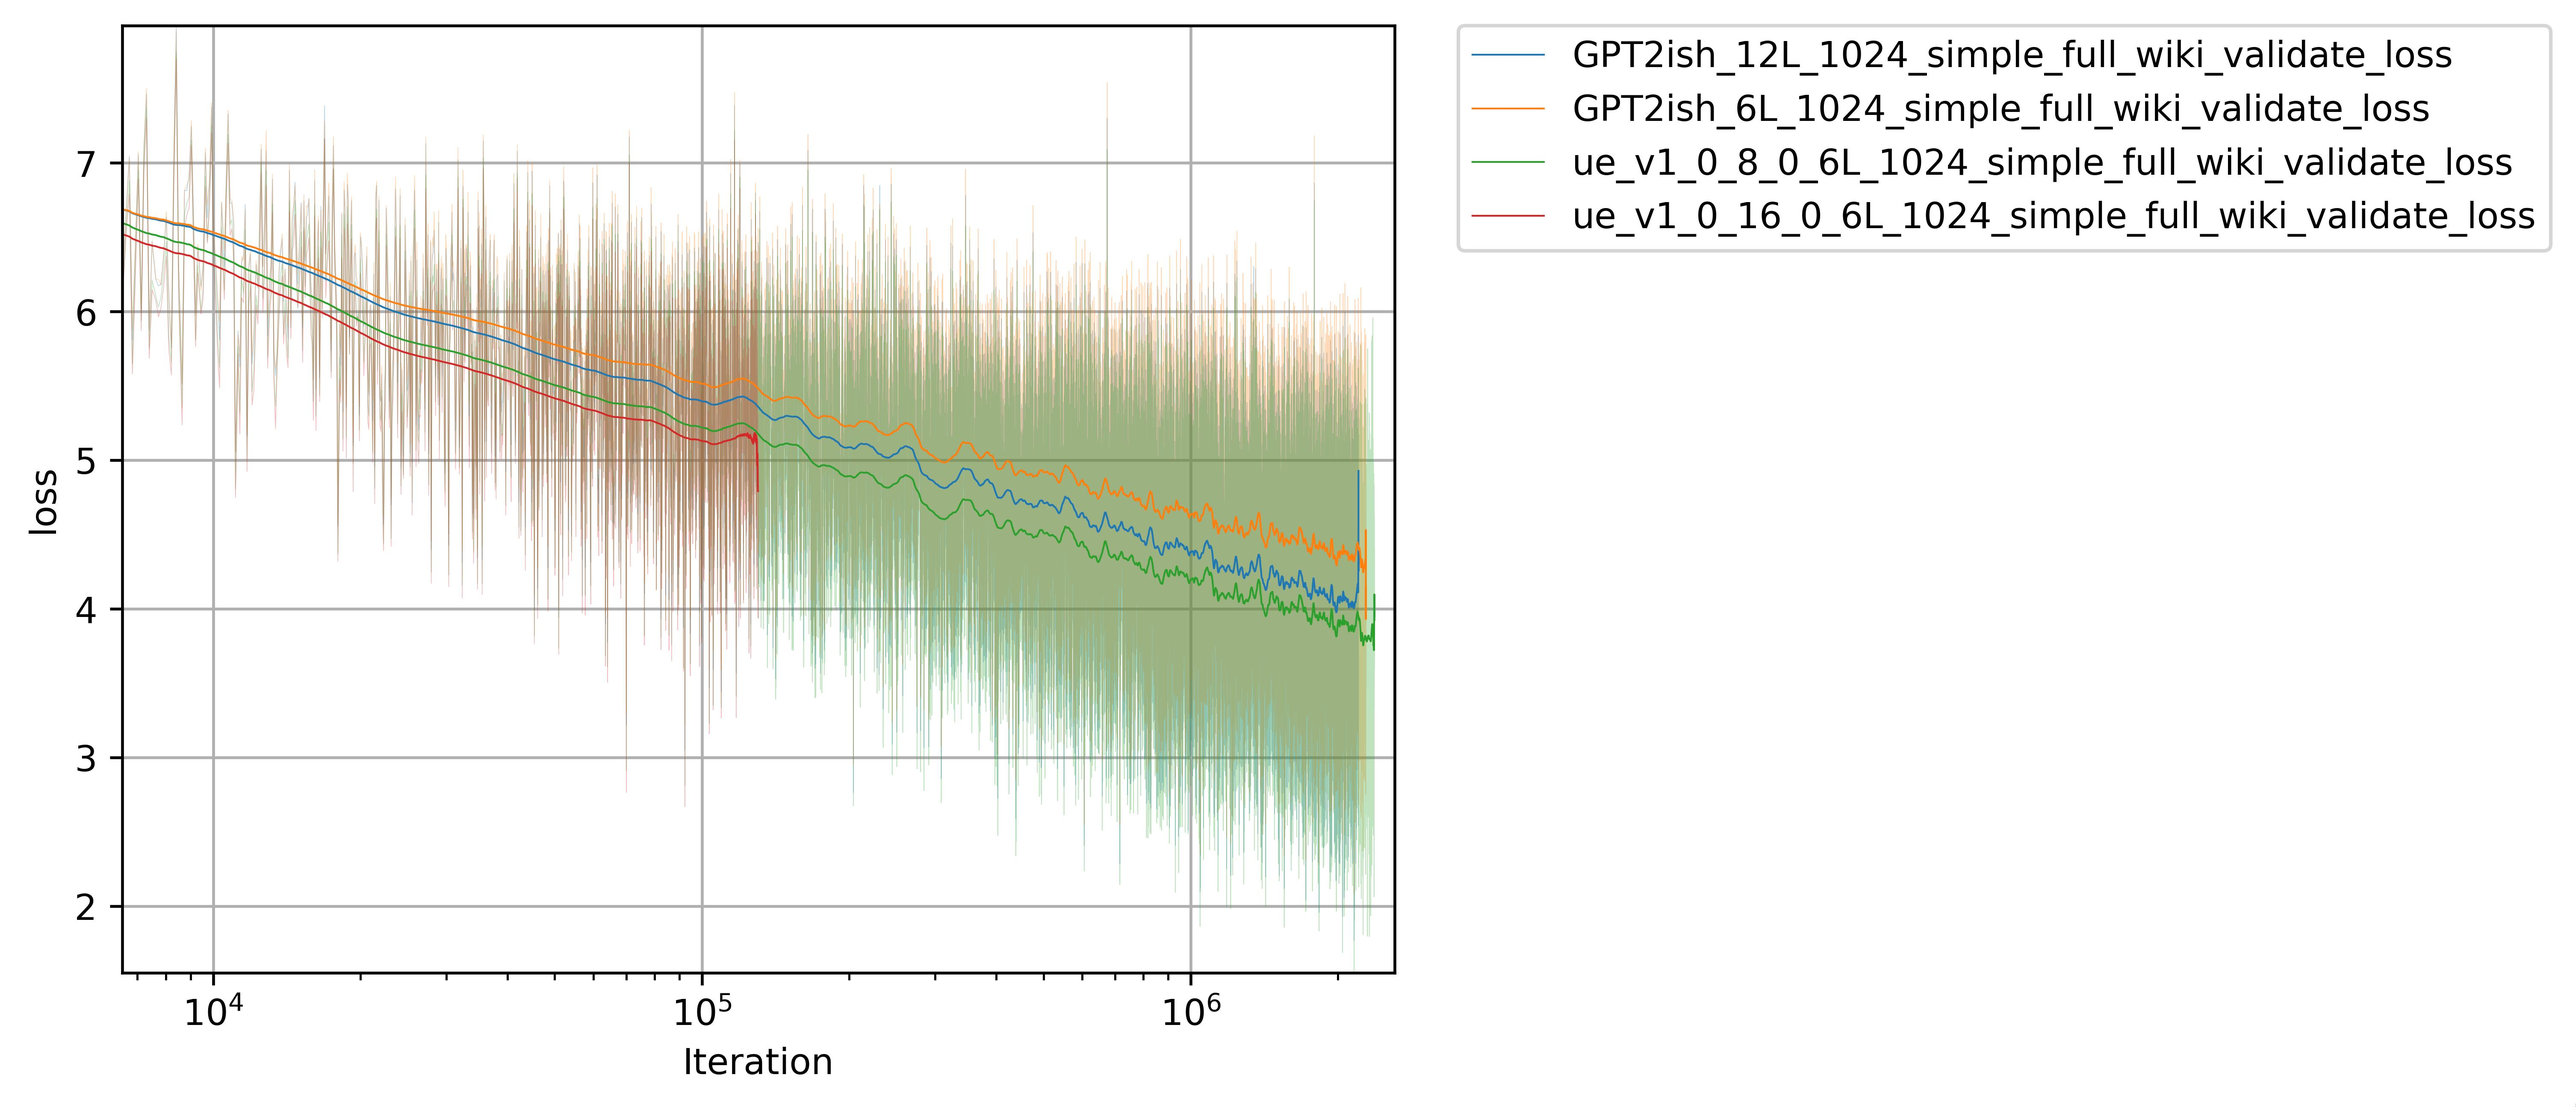
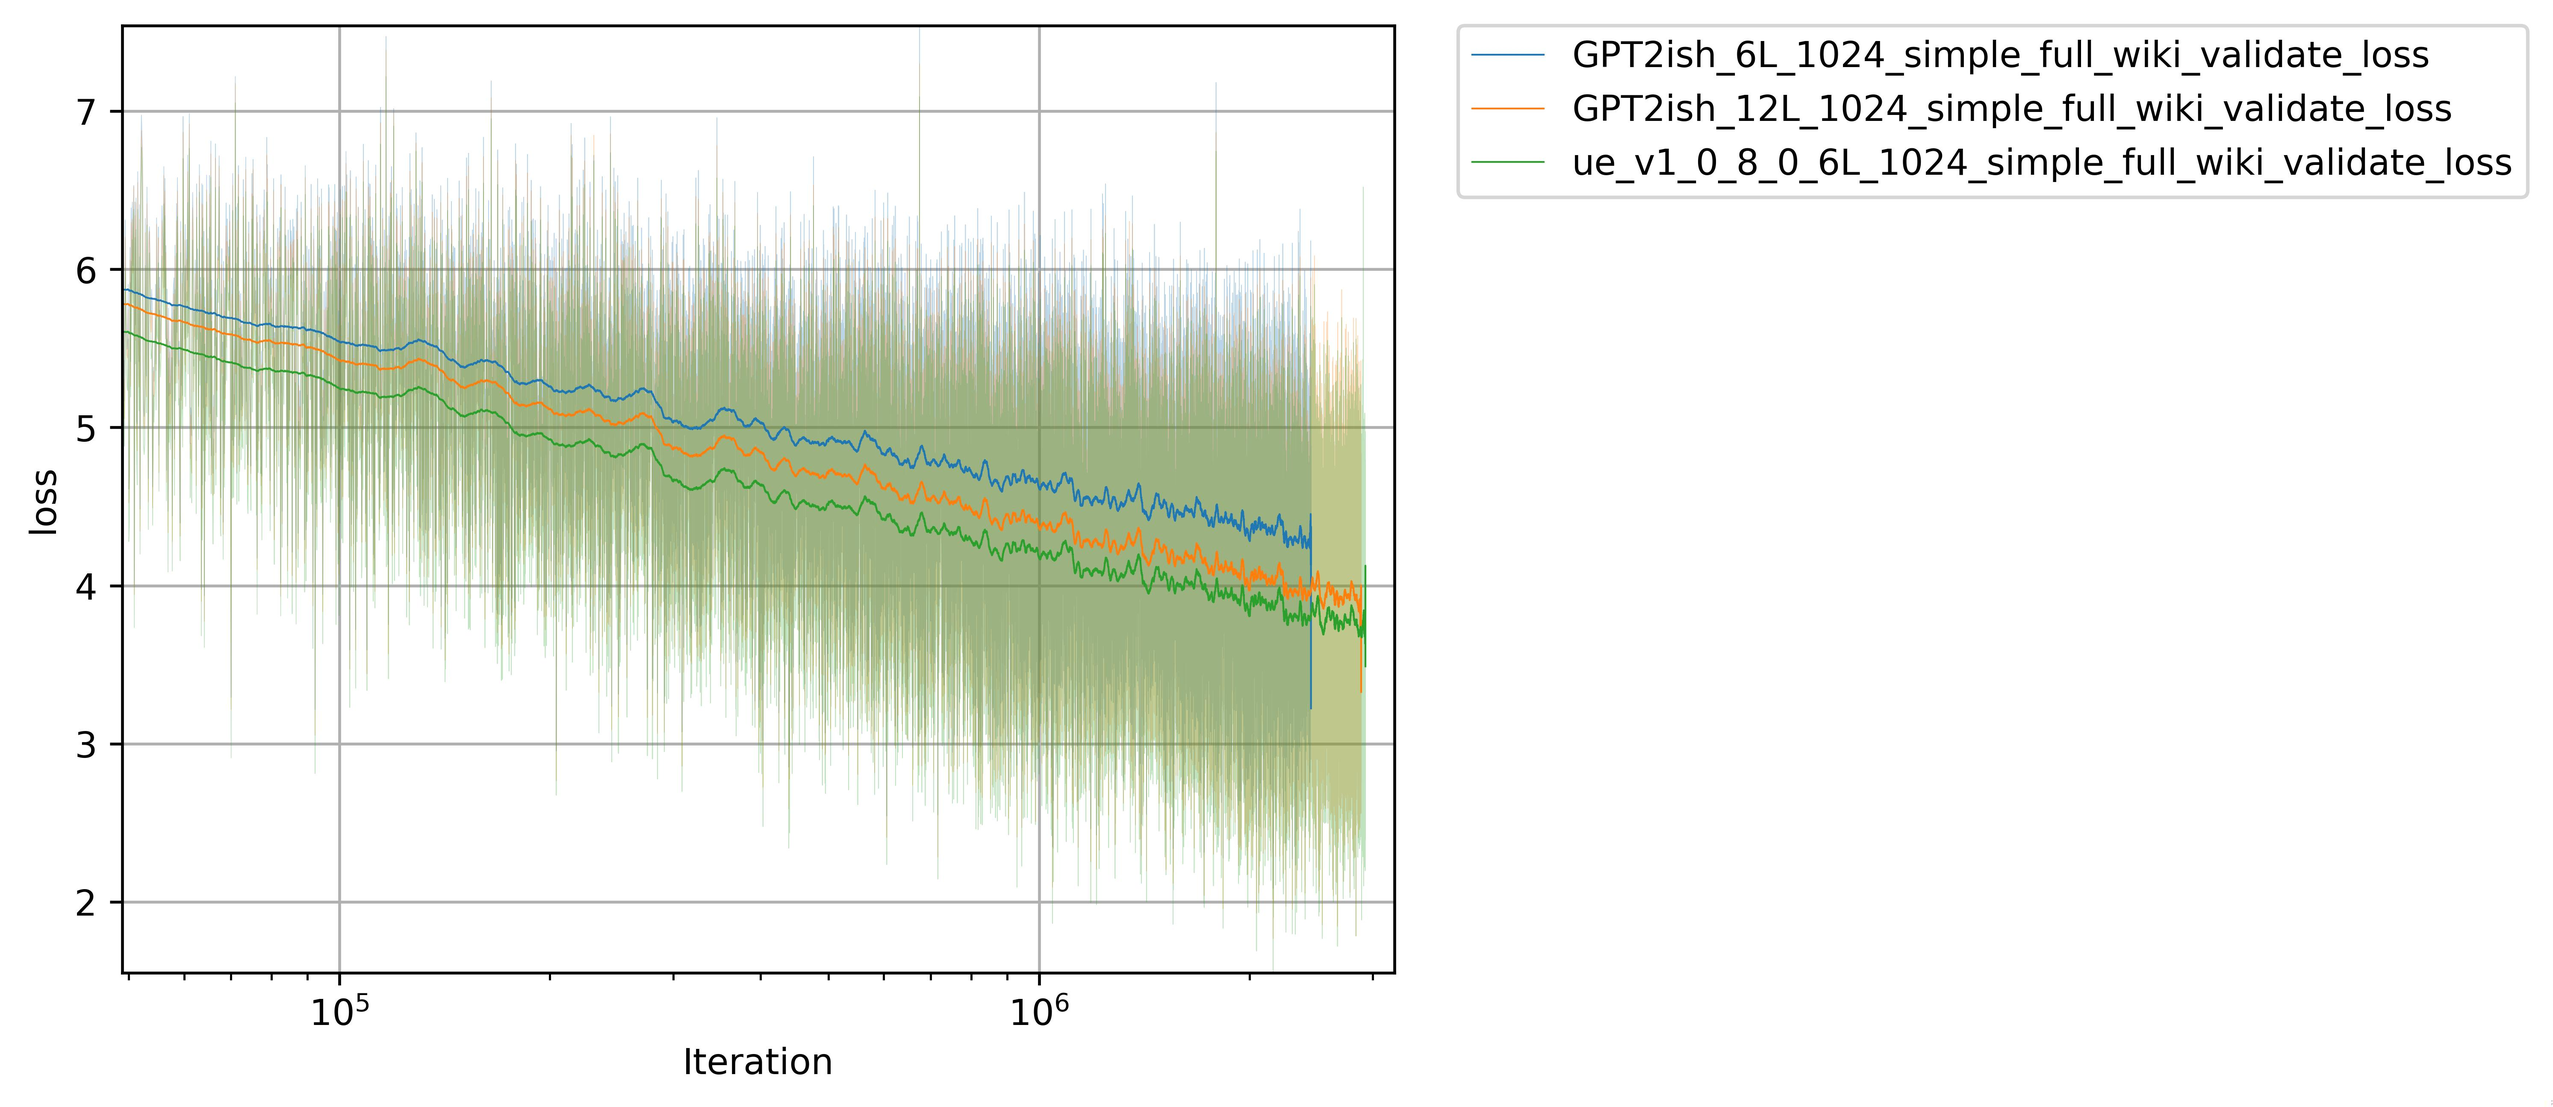
updated results. Added results for normv. changed the name of the 'norm' plot to a 'diff' plot.

diff --git a/lmplay/stats/plot.py b/lmplay/stats/plot.py
@@ -195,7 +195,7 @@ def _get_iters(files_data:dict) -> (list, str, str):
   iters = list(found_iters)
   iters.sort()
   return dict(iters=iters, longest=longest, shortest=shortest)
-def _norm_to_mean(files_data:dict, longest:str, plot_targets:tuple) -> dict:
+def _diff_to_mean(files_data:dict, longest:str, plot_targets:tuple) -> dict:
   longest = files_data[longest]
   result_files = dict()
   #Then we subtract the longest one's value from their values to normalize against it.
@@ -248,7 +248,7 @@ def plot(out_file,
          plot_targets=('loss',),
          scale=True,
          average_count:Optional[int] = 10,
-         norm_to_mean=False,
+         diff_to_longest=False,
          use_process=True):
   out_file = os.path.expanduser(out_file)
   # We want to center the graph on the interesting areas so we need to track the overall min/max and the worst min value
@@ -262,8 +262,8 @@ def plot(out_file,
   min_iter = int(file_data[file_meta['shortest']]['iter'][-1]*(1.0 - min_show))
   #min_iter = iters[0]
   max_iter = file_meta['iters'][-1]
-  if norm_to_mean:
-    file_data = _norm_to_mean(file_data, file_meta['longest'], plot_targets)
+  if diff_to_longest:
+    file_data = _diff_to_mean(file_data, file_meta['longest'], plot_targets)
   abs_min_value, abs_max_value, max_min_value, min_max_value = get_stats(file_data, plot_targets, min_iter)
   if len(file_data) > 0:
     if use_process:

diff --git a/lmplay/stats/__main__.py b/lmplay/stats/__main__.py
@@ -61,10 +61,10 @@ def main():
   #plot(outfile_loss, *found_files, min_show=.3, log_plot=False, scale=True, use_process=False)
   #plot(outfile_acc, *found_files, min_show=.9, log_plot=False, scale=False, use_process=False, plot_targets=('accuracy',))
 
-  outfile_log_norm_loss = f"./log_norm_loss.{file_type}"
-  outfile_log_norm_acc = f"./log_norm_accuracy.{file_type}"
-  plot(outfile_log_norm_loss, file_data, min_show=min_show, log_plot=True, scale=True, use_process=False, norm_to_mean=True, average_count=average_count)
-  plot(outfile_log_norm_acc, file_data, min_show=min_show, log_plot=True, scale=True, use_process=False, plot_targets=('accuracy',), norm_to_mean=True, average_count=average_count)
+  outfile_log_norm_loss = f"./log_diff_loss.{file_type}"
+  outfile_log_norm_acc = f"./log_diff_accuracy.{file_type}"
+  plot(outfile_log_norm_loss, file_data, min_show=min_show, log_plot=True, scale=True, use_process=False, diff_to_longest=True, average_count=average_count)
+  plot(outfile_log_norm_acc, file_data, min_show=min_show, log_plot=True, scale=True, use_process=False, plot_targets=('accuracy',), diff_to_longest=True, average_count=average_count)
 
 
 

diff --git a/README.md b/README.md
@@ -9,18 +9,24 @@ A note of caution here, because this is a playground it really isn't designed to
 
 ## The experiments
 I have been playing with ideas 'on the side' for a while now and several show promise. The first one is something I call 'Unified Embeddings'.
-### Unified Embeddings
+### Experiment 1: Unified Embeddings
 Unified Embeddings provide a better way to train embeddings with no additional inference costs or model structure changes however there is a training memory penalty.
 The basic idea is to take a very large embedding and run it through a ff layer to generate the output embedding during training. 
 For production inference all vocab embeddings can be generated and stored and the embedding training weights can be tossed.
 The limited testing I have done so far looks quite promising:
 
 ![](results/ue_log_loss.jpg)
-This graph shows a 6 layer UE model beating a 12 layer baseline model, at least in initial training. The long term benefits are still unknown but these results are promising. The 6 layer UE model here has exactly the same prod inference costs/structure/weights/etc as a baseline 6 layer GPTish model. Only during training does it need extra logic/parameters. Additionally, you can see that the larger the UE the better (so far) with the 16x UE outperforming the 8x one.
-The norm plot shows performance better:
-![](results/ue_log_norm_loss.jpg)
-Here you can clearly see how much better the 6 layer UE models are over the 6 and 12 layer baseline models. It is still gaining ground on the 6 while the 12 is slowly catching back up. Clearly, longer runs are needed. I will update this plot as the runs continue.
+This graph shows a 6 layer UE model beating a 12 layer baseline model, at least in initial training. The long term benefits are still unknown but these results are promising. The 6 layer UE model here has exactly the same prod inference costs/structure/weights/etc as a baseline 6 layer GPTish model. Only during training does it need extra logic/parameters. Additionally, the larger the UE the better. A 16x UE significantly outperforms an 8x one. Those results will be shown eventually (based on GPU availability).
+The diff plot shows performance better:
+![](results/ue_log_diff_loss.jpg)
+Here you can clearly see how much better the 6 layer UE models are over the 6 and 12 layer baseline models. It is still gaining ground on the 6 while the 12 was slowly catching back up but looks like it has stalled. Clearly, longer runs are needed, but the results appear to be getting better as time goes on. I will update this plot as runs continue.
 
+### Experiment 2: Value Norm
+Attn is amazing. But it may have a simple improvement to make it even better. The value projection applies to all elements of a sequence and softmax sums them all together depending on how k&q rank them. 
+The value projection has a hard job, it not only needs to create a useful value, but it needs to avoid making uninteresting values accidentally large which would negate the ranking that the k&q came up with. There is a simple way to take this side-job away from the v projection, use LayerNorm. Now the v projection can focus on emphasizing the important value aspects of the sequence and not accidentally destroy the ranking.
+
+At least that is the theory/idea that led me to test it. The results are pretty clear though. While not as large an impact as UEs, adding a simple layer norm is an almost no cost change to multi-head attn and it looks like it provides solid value, at least in early training. Adding layer norm to k or q however appears to have a negative impact (not shown) but more testing may find ways to improve those too.
+![](results/nv_log_diff_loss.jpg)
 ## Future experiments
 I am slowly 'cleaning up' many projects that I have been working on and intend to release them as I have longer training runs on them. I am currently limited to my one 3060 so even these limited runs take several days each. In fact, one epoch on the dataset in use will take roughly 10 days per model to complete. I expect that the current testing will take at least another 20 days to finish one epoch for all models.
 
@@ -50,7 +56,7 @@ The code is implemented in `lmplay.generate.__main__`
 
 ### lmp_plotstats
 It is all about the graphs right? This will take outputs from different runs and put them all in the same plot files. Two basic stats are plotted, accuracy and loss.
-For each of these there are two different kinds of graphs, a regular log plot and a 'norm' plot where the longest run is used as the baseline for the other runs. This norm view makes it much easier to compare the performance of different models/runs.
+For each of these there are two different kinds of graphs, a regular log plot and a 'diff' plot where the longest run is used as the baseline for the other runs. This diff view makes it much easier to compare the performance of different models/runs.
 The code is implemented in `lmplay.stats.__main__`.
 
 ## Usage
